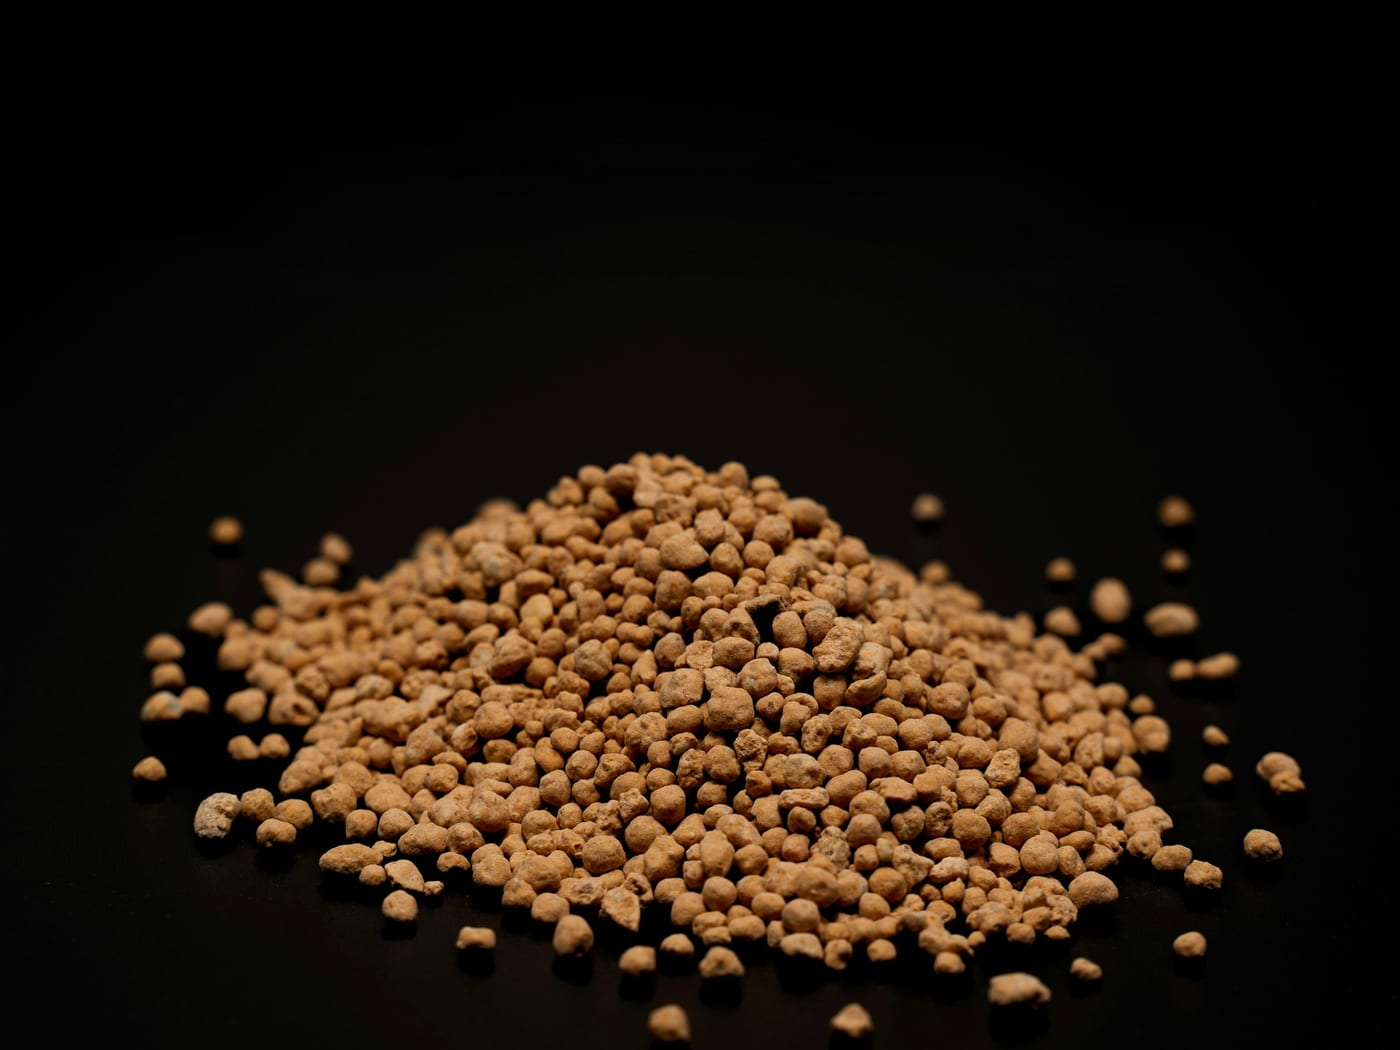
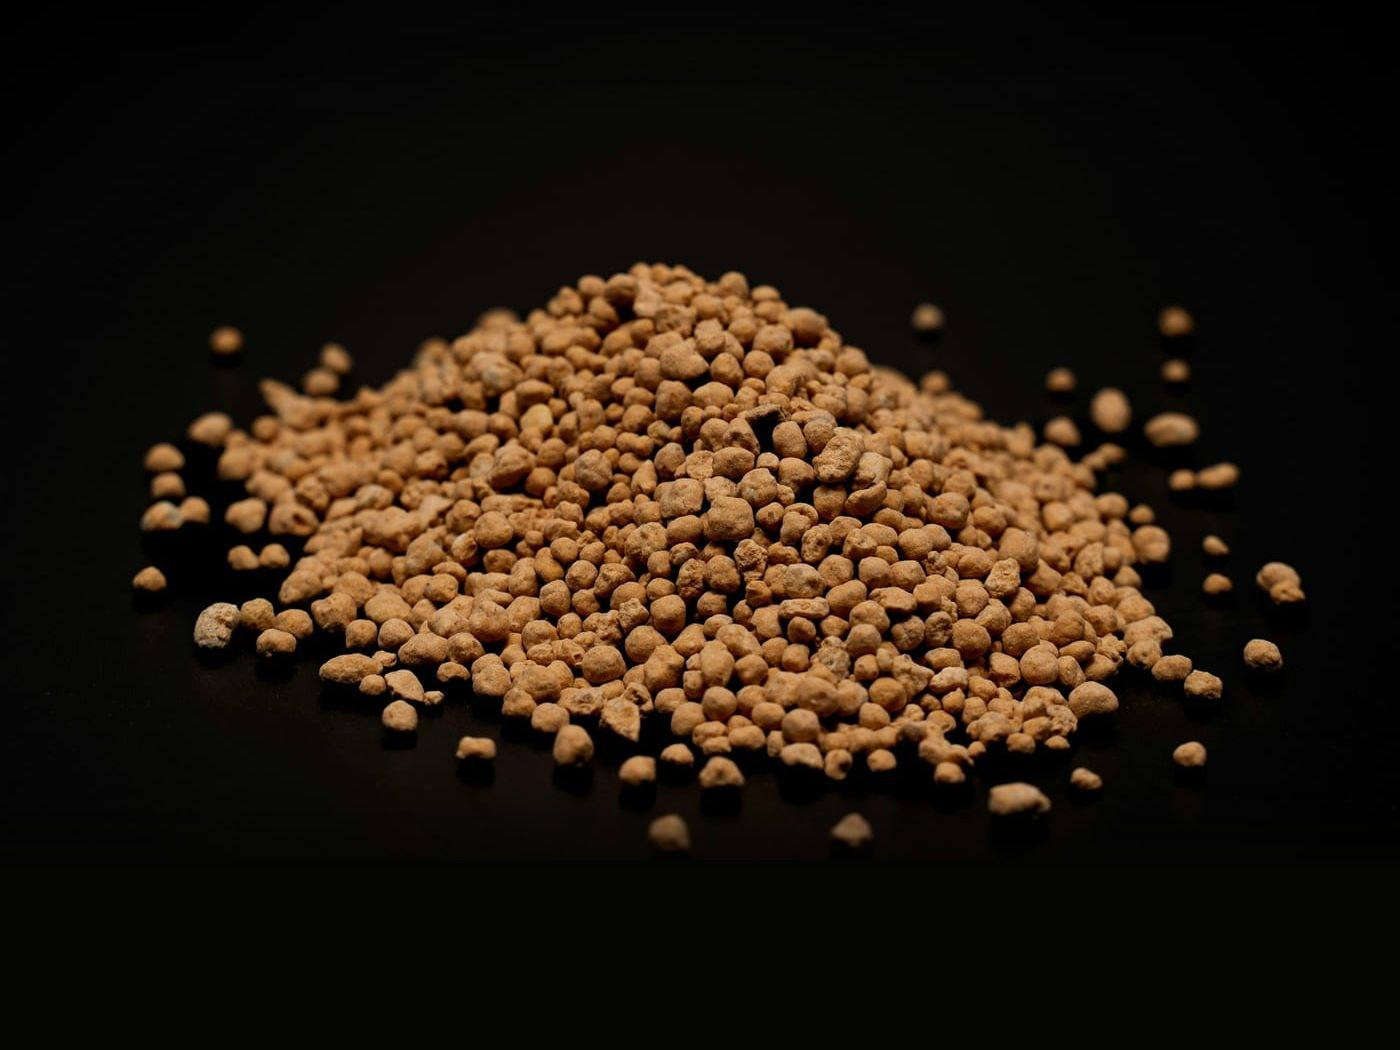
VIATOP 사업영역 이미지 구도 조정 — 알갱이 더미를 위로 올려 중앙 배치

diff --git a/business.html b/business.html
@@ -50,7 +50,7 @@
     <div class="biz-text"><span class="biz-no">02</span><h3>Asphalt</h3><p>SK에너지(주)와 아스팔트 판매대리점 계약을 맺어 고품질의 다양한 아스팔트 제품을 고객에게 신속, 정확하게 공급하고 있습니다.</p></div>
   </div>
   <div class="biz-block rv" id="viatop">
-    <div class="biz-photo"><img src="img/biz-viatop.jpg" alt="아스팔트 성능 개선용 첨가제(알갱이 형태)"></div>
+    <div class="biz-photo"><img src="img/biz-viatop.jpg?v=2" alt="아스팔트 성능 개선용 첨가제(알갱이 형태)"></div>
     <div class="biz-text"><span class="biz-no">03</span><h3>Viatop</h3><p>인우이엔씨는 독일의 JRS社로부터 아스팔트 성능 개선용 첨가제인 VIATOP을 수입 및 유통하여 국내 도로의 고품질화에 기여하고 있습니다.</p></div>
   </div>
 </div></section>
